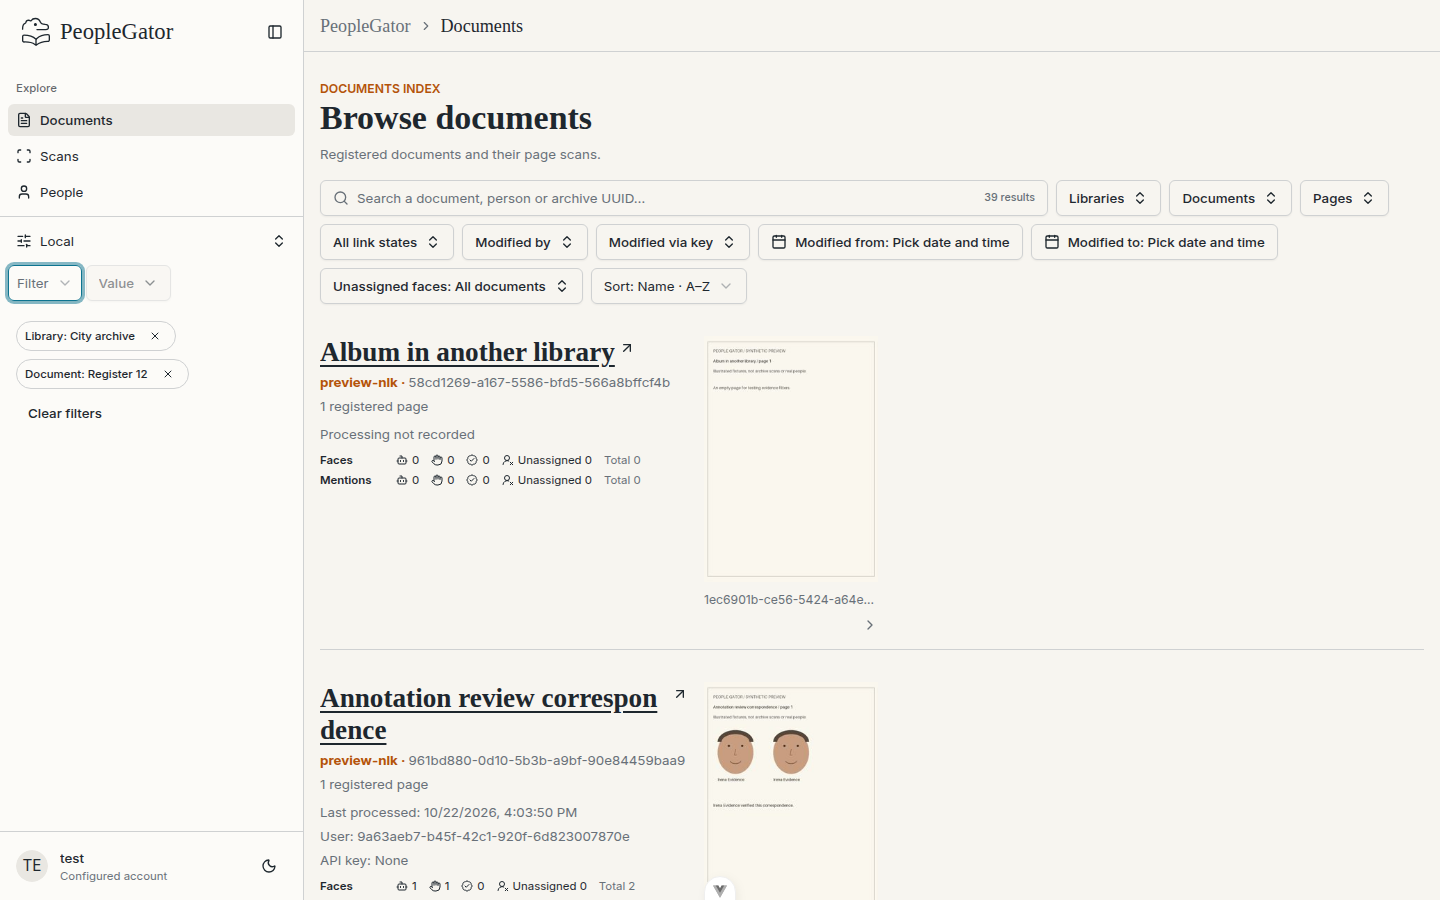
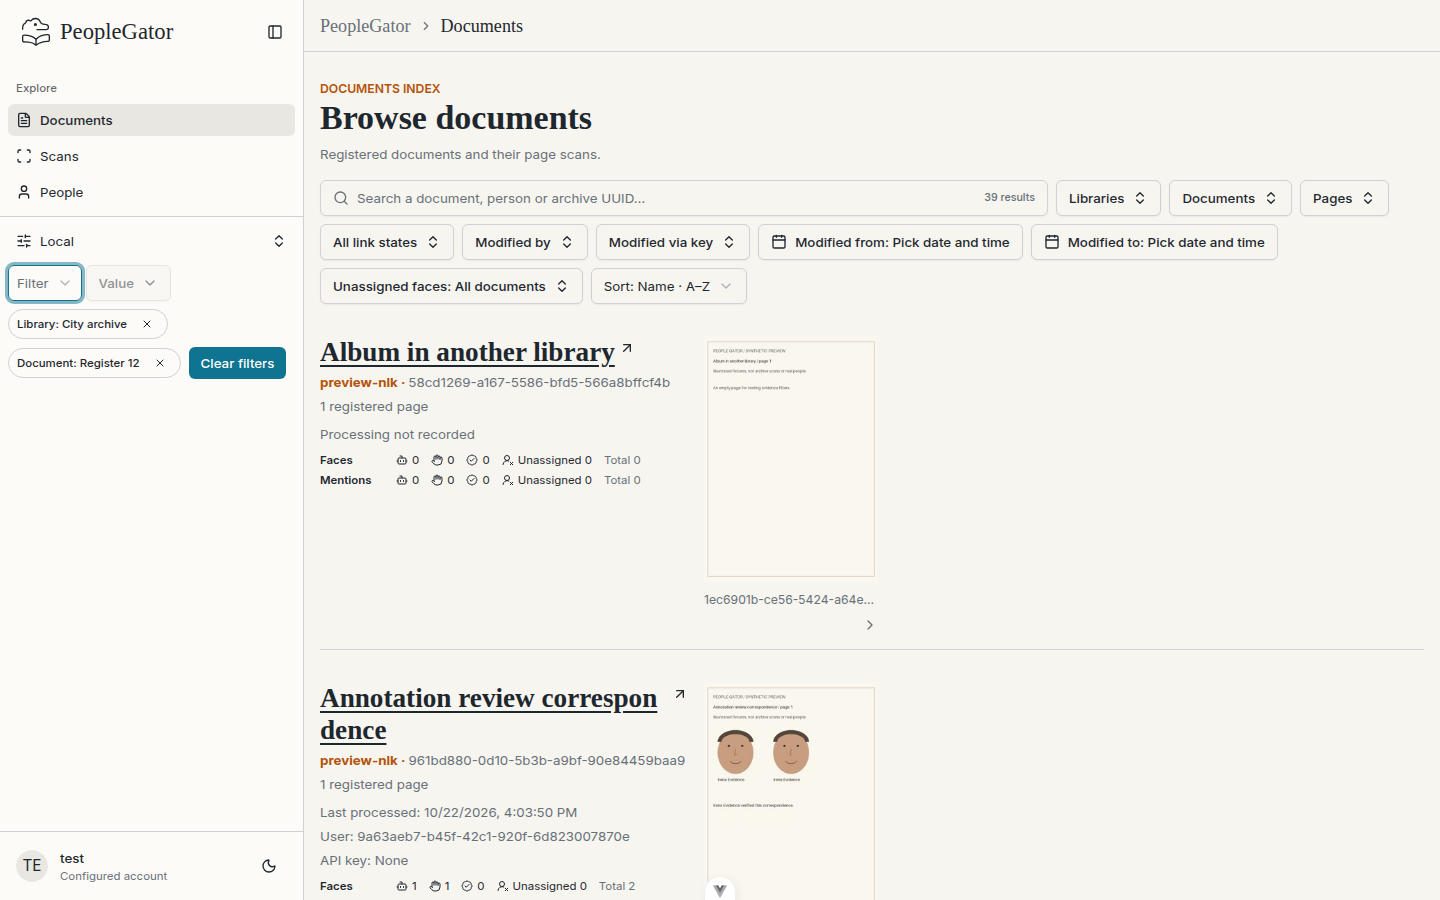
style: align workspace filter tags with parent edges (#60)

Changed region(s): [[0.0, 0.3422, 0.2188, 0.4667]]

diff --git a/people-gator-app/src/components/custom/WorkspaceShowcase.vue b/people-gator-app/src/components/custom/WorkspaceShowcase.vue
@@ -167,8 +167,9 @@ function updateFilter(filter: WorkspaceFilterSelection) {
                     @change="updateFilter"
                   />
                 </div>
-                <div v-if="filters.length" class="min-w-0 px-2 pb-2">
+                <div v-if="filters.length" class="min-w-0">
                   <ActiveFilters
+                    class="mt-0!"
                     :filters="filters"
                     clear-label="Clear filters"
                     @remove="remove"

diff --git a/people-gator-api/docs/PREVIEW-SEEDING.md b/people-gator-api/docs/PREVIEW-SEEDING.md
@@ -44,7 +44,8 @@ toggling a selected value removes it immediately. Date and time changes apply
 immediately too. The picker stays open for additional values or time edits,
 without Done, Enter or a checkmark being required. Reopening a type restores its
 selected values. Press **Escape** to close the selector and preserve values
-already applied; tags remove applied values individually. Clicking away
+already applied; tags remove applied values individually and align with the
+workspace content edges without extra outer padding or margin. Clicking away
 or dismissing the picker resets the row to **Filter** and a disabled **Value**
 selector, ready for the next filter; applied tags remain unchanged.
 Clicking the type control allows
